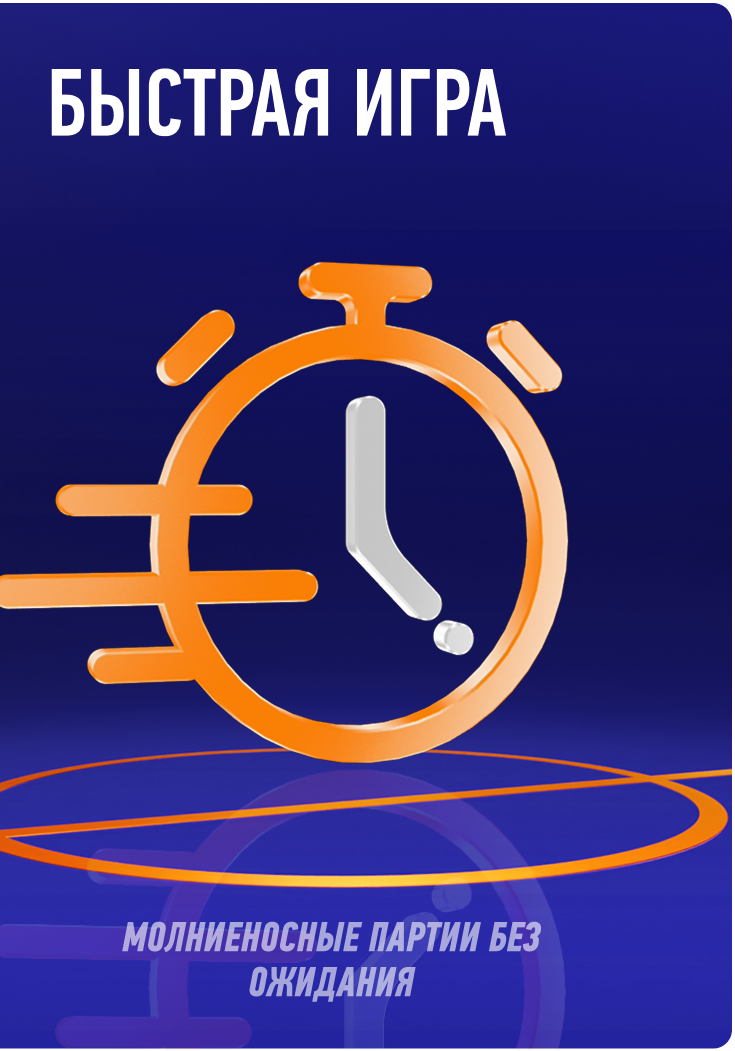
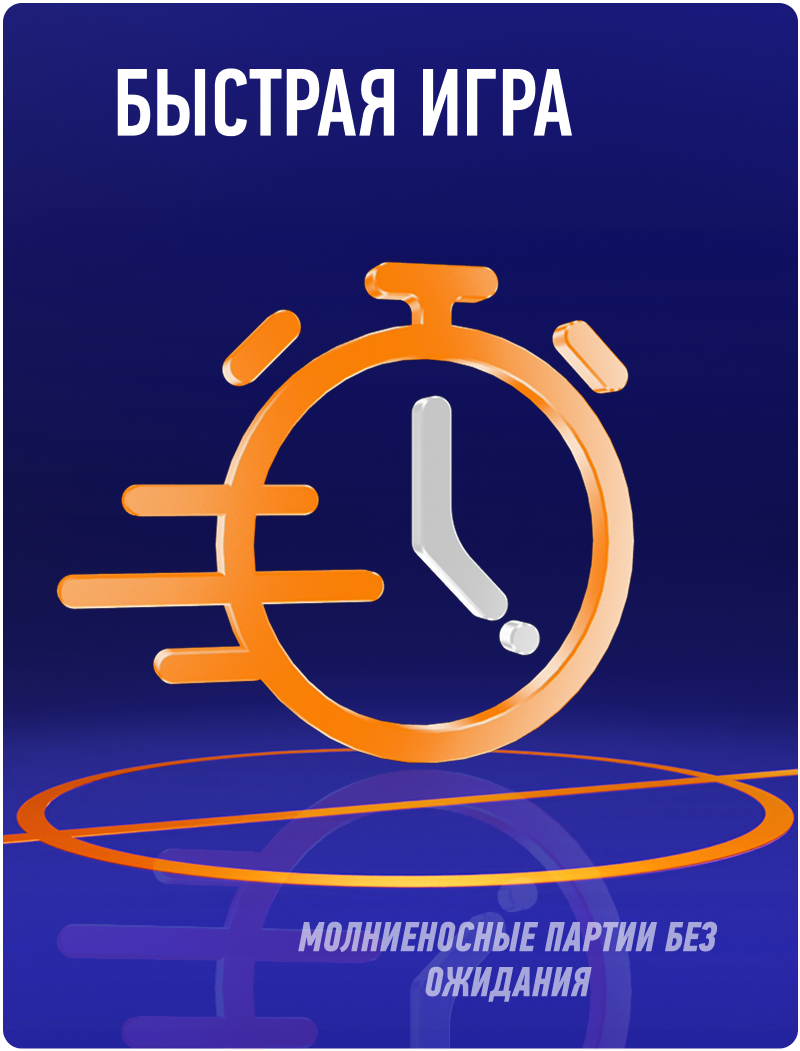
- fixed cards

Changed region(s): [[0.0, 0.0, 1.0, 1.0], [0.0599, 0.0609, 0.7184, 0.1522], [0.0599, 0.9439, 0.1796, 1.0]]

diff --git a/pokerv2/src/scenes/Start.js b/pokerv2/src/scenes/Start.js
@@ -33,7 +33,7 @@ export class Start extends Phaser.Scene {
     }
 
     createButtons() {
-        const buttonScale = 0.27; // Scale down large images to ~200x300
+        const buttonScale = 0.29; // Scale down large images to ~200x300
         const buttonSpacing = 250; // Space between button centers
         const buttonY = 100; // Y position relative to container (0)
 
@@ -47,7 +47,7 @@ export class Start extends Phaser.Scene {
         ];
 
         // Create container for slider
-        this.buttonContainer = this.add.container(0, 450); // Position container at y=450
+        this.buttonContainer = this.add.container(0, 250); // Position container at y=450
         this.buttonContainer.setSize(buttonData.length * buttonSpacing, 300);
 
         // Store buttons for later use
